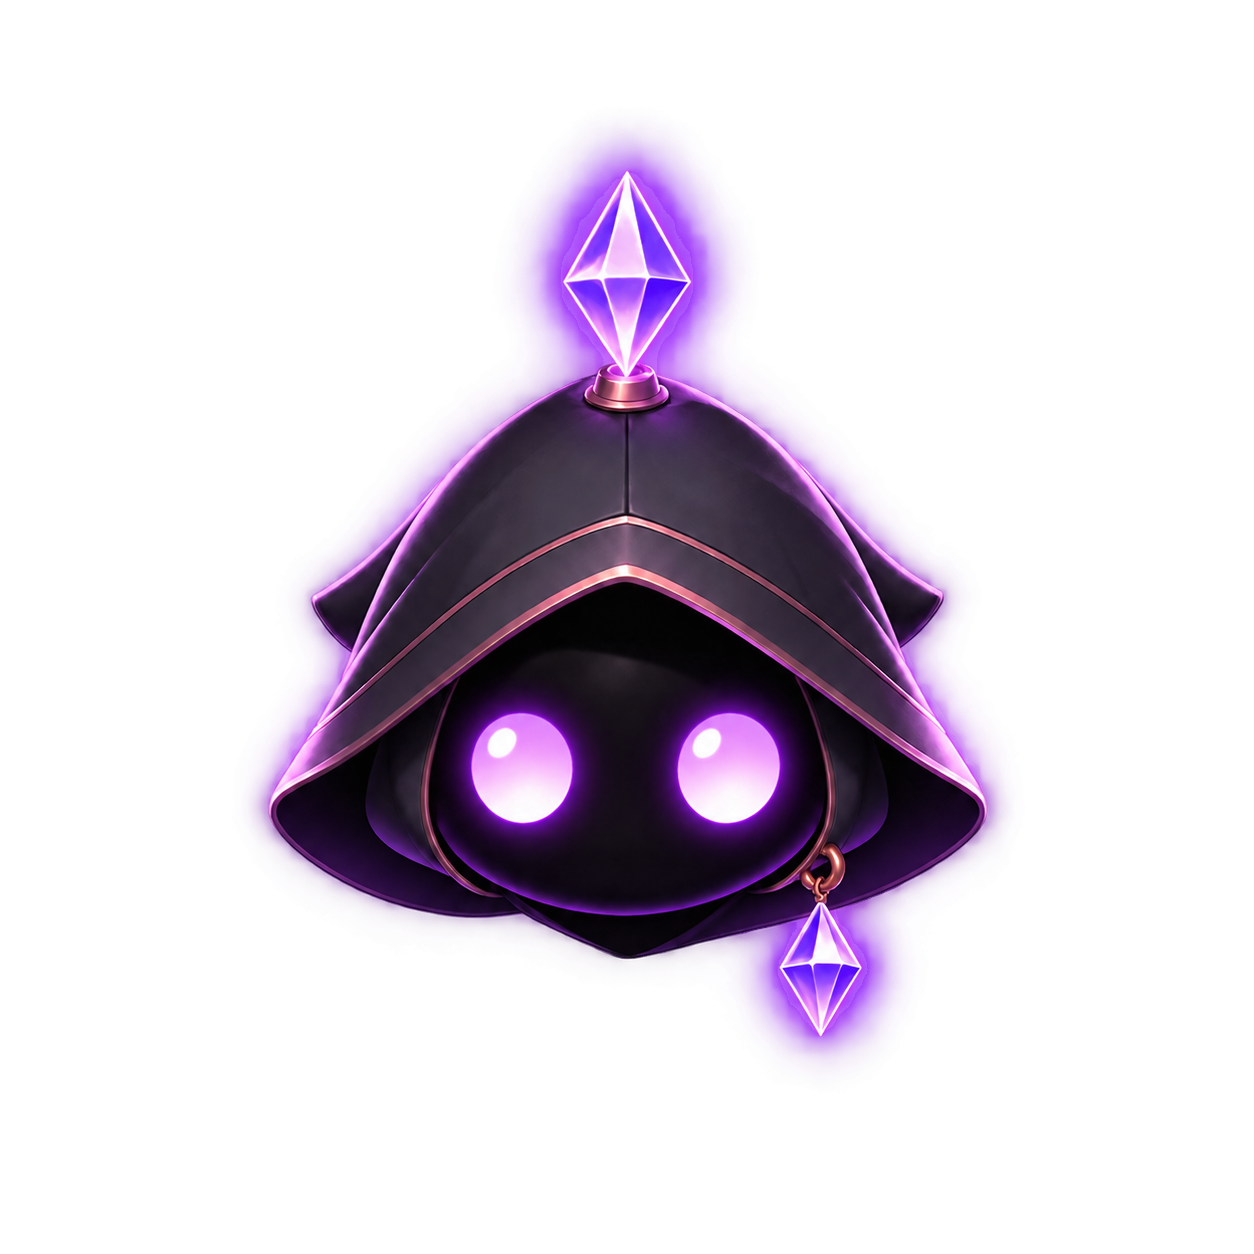
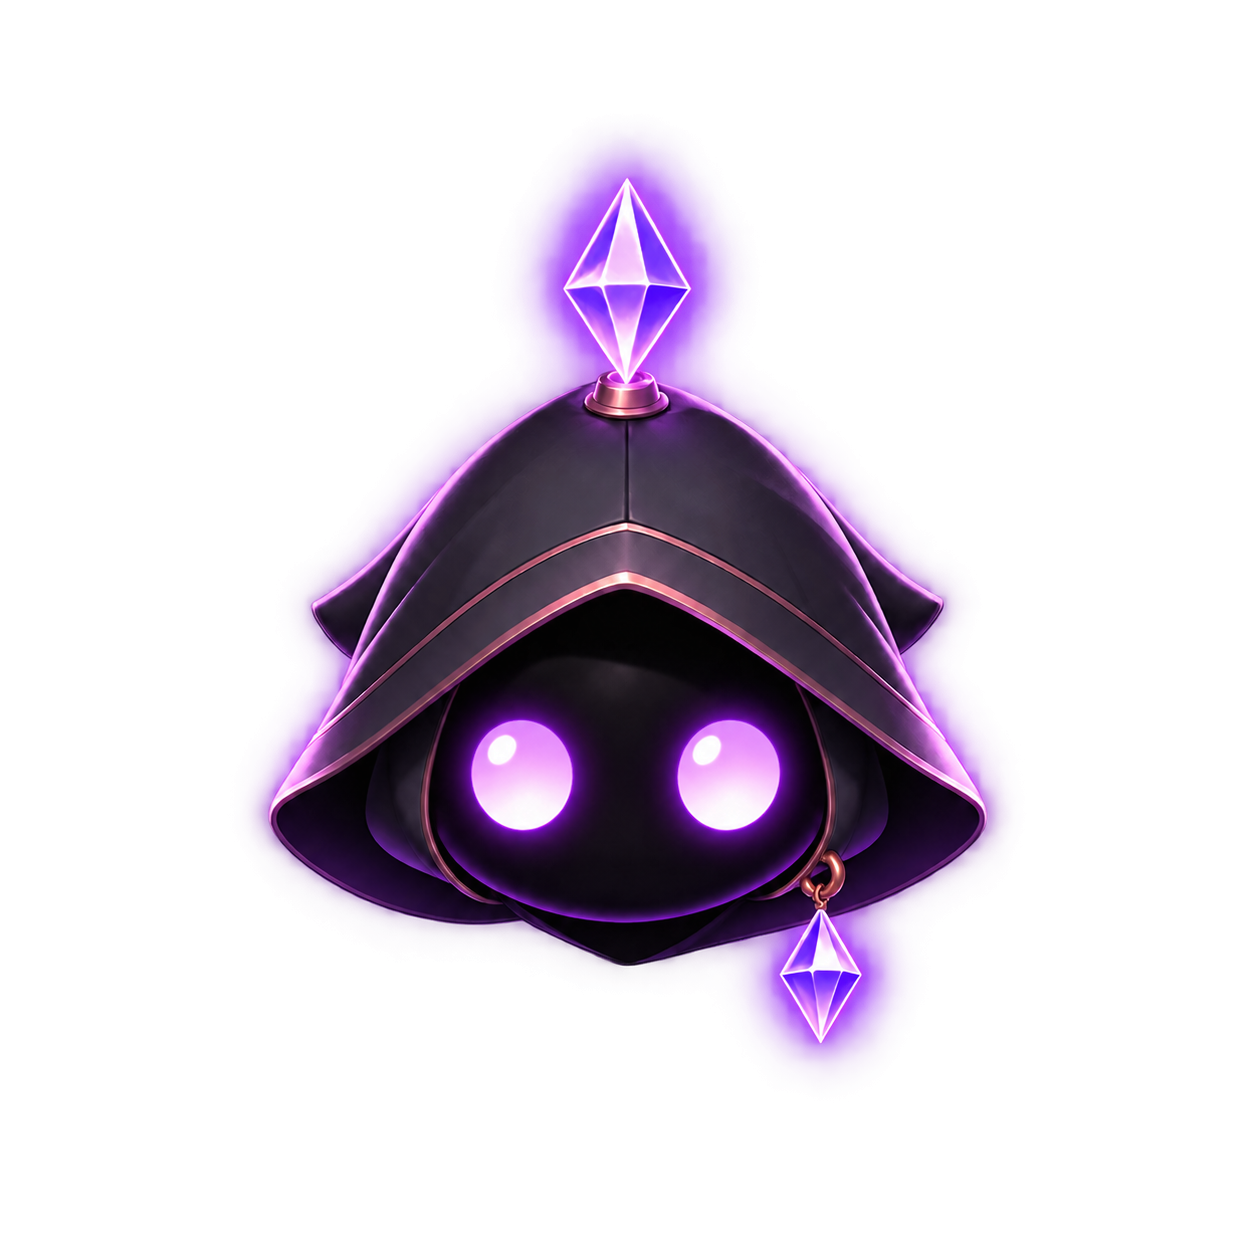
feat(aylul): refine listening animation rhythm

Changed region(s): [[0.1866, 0.0933, 0.8086, 0.8397]]

diff --git a/assets/aylul/animations/v1/listening/preview/index.html b/assets/aylul/animations/v1/listening/preview/index.html
@@ -19,7 +19,7 @@
     .panels { display: grid; grid-template-columns: repeat(2, minmax(0, 1fr)); gap: 18px; }
     figure { margin: 0; border: 1px solid #392a4c; border-radius: 18px; padding: 16px; background: #171020; }
     .stage { display: grid; place-items: center; min-height: 310px; overflow: auto; border-radius: 12px; background-color: #110c18; background-image: linear-gradient(45deg, #1a1224 25%, transparent 25%), linear-gradient(-45deg, #1a1224 25%, transparent 25%), linear-gradient(45deg, transparent 75%, #1a1224 75%), linear-gradient(-45deg, transparent 75%, #1a1224 75%); background-size: 24px 24px; background-position: 0 0, 0 12px, 12px -12px, -12px 0; }
-    img { display: block; width: var(--preview-size, 128px); height: var(--preview-size, 128px); object-fit: contain; image-rendering: auto; }
+    img { display: block; width: var(--preview-size, 96px); height: var(--preview-size, 96px); object-fit: contain; image-rendering: auto; }
     figcaption { margin-top: 12px; color: #cbbdde; }
     .note { margin-top: 20px; padding: 14px 16px; border-left: 3px solid #8e64b6; background: #171020; color: #cbbdde; line-height: 1.55; }
     code { color: #ebd5ff; }
@@ -32,9 +32,10 @@
     <p class="scope">Local/test-only review of the listening slice. This page does not connect to program events, a backend, Shadows, or Planner logic.</p>
 
     <div class="controls" aria-label="Preview controls">
-      <button type="button" data-size="64">Small</button>
-      <button type="button" data-size="128" aria-pressed="true">Medium</button>
-      <button type="button" data-size="256">Large</button>
+      <button type="button" data-size="64">64 px</button>
+      <button type="button" data-size="96" aria-pressed="true">96 px</button>
+      <button type="button" data-size="128">128 px</button>
+      <button type="button" data-size="256">256 px detail</button>
       <button type="button" id="playback">Pause</button>
       <span class="status" id="status" aria-live="polite">Loading metadata…</span>
     </div>
@@ -50,7 +51,7 @@
       </figure>
     </div>
 
-    <p class="note">Fixed 1254 × 1254 transparent canvas; fixed pivot at <code>(627, 1102)</code>. The apparent motion is intentionally subtle at product display sizes. Runtime binding is deferred.</p>
+    <p class="note">Fixed 1254 × 1254 transparent canvas; fixed pivot at <code>(627, 1102)</code>. The body stays still while eye illumination and the two existing crystal glows respond in sequence. Reduced-motion preferences stop automatic playback. Runtime binding is deferred.</p>
   </main>
 
   <script>
@@ -60,9 +61,11 @@
     const sizeButtons = [...document.querySelectorAll('[data-size]')];
     let frames = [];
     let fps = 12;
-    let playing = true;
+    const reducedMotion = window.matchMedia('(prefers-reduced-motion: reduce)');
+    let playing = !reducedMotion.matches;
     let frameIndex = 0;
     let lastFrameAt = 0;
+    let animationRequest = 0;
 
     function setFrame(index) {
       frameIndex = index % frames.length;
@@ -71,11 +74,30 @@
     }
 
     function tick(timestamp) {
+      animationRequest = 0;
       if (playing && frames.length && timestamp - lastFrameAt >= 1000 / fps) {
         setFrame(frameIndex + 1);
         lastFrameAt = timestamp;
       }
-      requestAnimationFrame(tick);
+      schedule();
+    }
+
+    function schedule() {
+      if (!animationRequest && playing && !document.hidden) {
+        animationRequest = requestAnimationFrame(tick);
+      }
+    }
+
+    function stopScheduling() {
+      if (animationRequest) cancelAnimationFrame(animationRequest);
+      animationRequest = 0;
+    }
+
+    function updatePlaybackLabel() {
+      playback.textContent = playing ? 'Pause' : 'Play animation';
+      if (!playing && reducedMotion.matches) {
+        status.textContent = 'Reduced motion · still frame';
+      }
     }
 
     sizeButtons.forEach((button) => button.addEventListener('click', () => {
@@ -85,12 +107,26 @@
 
     playback.addEventListener('click', () => {
       playing = !playing;
-      playback.textContent = playing ? 'Pause' : 'Play';
       lastFrameAt = performance.now();
+      updatePlaybackLabel();
+      if (playing) schedule();
+      else stopScheduling();
     });
 
     document.addEventListener('visibilitychange', () => {
       lastFrameAt = performance.now();
+      if (document.hidden) stopScheduling();
+      else schedule();
+    });
+
+    reducedMotion.addEventListener('change', (event) => {
+      if (event.matches) {
+        playing = false;
+        frameIndex = 0;
+        if (frames.length) setFrame(0);
+        stopScheduling();
+      }
+      updatePlaybackLabel();
     });
 
     fetch('../metadata.json')
@@ -102,7 +138,8 @@
         frames = metadata.frames;
         fps = metadata.playback.fps;
         setFrame(0);
-        requestAnimationFrame(tick);
+        updatePlaybackLabel();
+        schedule();
       })
       .catch((error) => {
         status.textContent = `Preview error: ${error.message}`;

diff --git a/assets/aylul/animations/v1/listening/README.md b/assets/aylul/animations/v1/listening/README.md
@@ -5,7 +5,7 @@ contain runtime event bindings or product integration.
 
 ## Contents
 
-- `frames/frame-000.png` through `frames/frame-015.png`: ordered transparent
+- `frames/frame-000.png` through `frames/frame-023.png`: ordered transparent
   1254 x 1254 PNG frames.
 - `still.png`: poster/still frame, copied byte-for-byte from the approved
   canonical listening image.
@@ -19,8 +19,10 @@ The source is `assets/aylul/states/v1/listening.png` at SHA-256
[1 lines of base64/hex data omitted]
 It remains untouched. The animation keeps the approved RGB artwork, opaque
 pixels, scale, silhouette, horizontal alignment, colors, proportions, glow
-style, eyes, crystals, and details. Motion is limited to a gentle vertical
-micro-hover and alpha-only modulation of already translucent purple glow.
+style, eyes, crystals, and details. The body remains stationary. The listening
+rhythm is a soft double attention beat in existing bright eye pixels, followed
+by a delayed head-crystal glow and a gentler pendant echo. Only alpha changes
+inside tightly bounded, color-qualified source regions; no pixels are redrawn.
 
 The fixed pivot is canvas coordinate `(627, 1102)`. Frames must not be trimmed
 or independently centered; doing so would destroy the intended alignment.
@@ -37,9 +39,11 @@ For example, with Python installed:
 python -m http.server 8000 --bind 127.0.0.1
 ```
 
-The preview offers small, medium, and large display sizes, looping playback,
-pause/resume, and the still frame beside the animation. It is a review tool,
-not a runtime integration surface.
+The preview offers exact 64, 96, and 128 px review sizes plus a 256 px detail
+size, looping playback, pause/resume, and the still frame beside the animation.
+When `prefers-reduced-motion: reduce` matches, playback is stopped by default and
+can only be started explicitly. It is a review tool, not a runtime integration
+surface.
 
 ## Scope and follow-up
 
